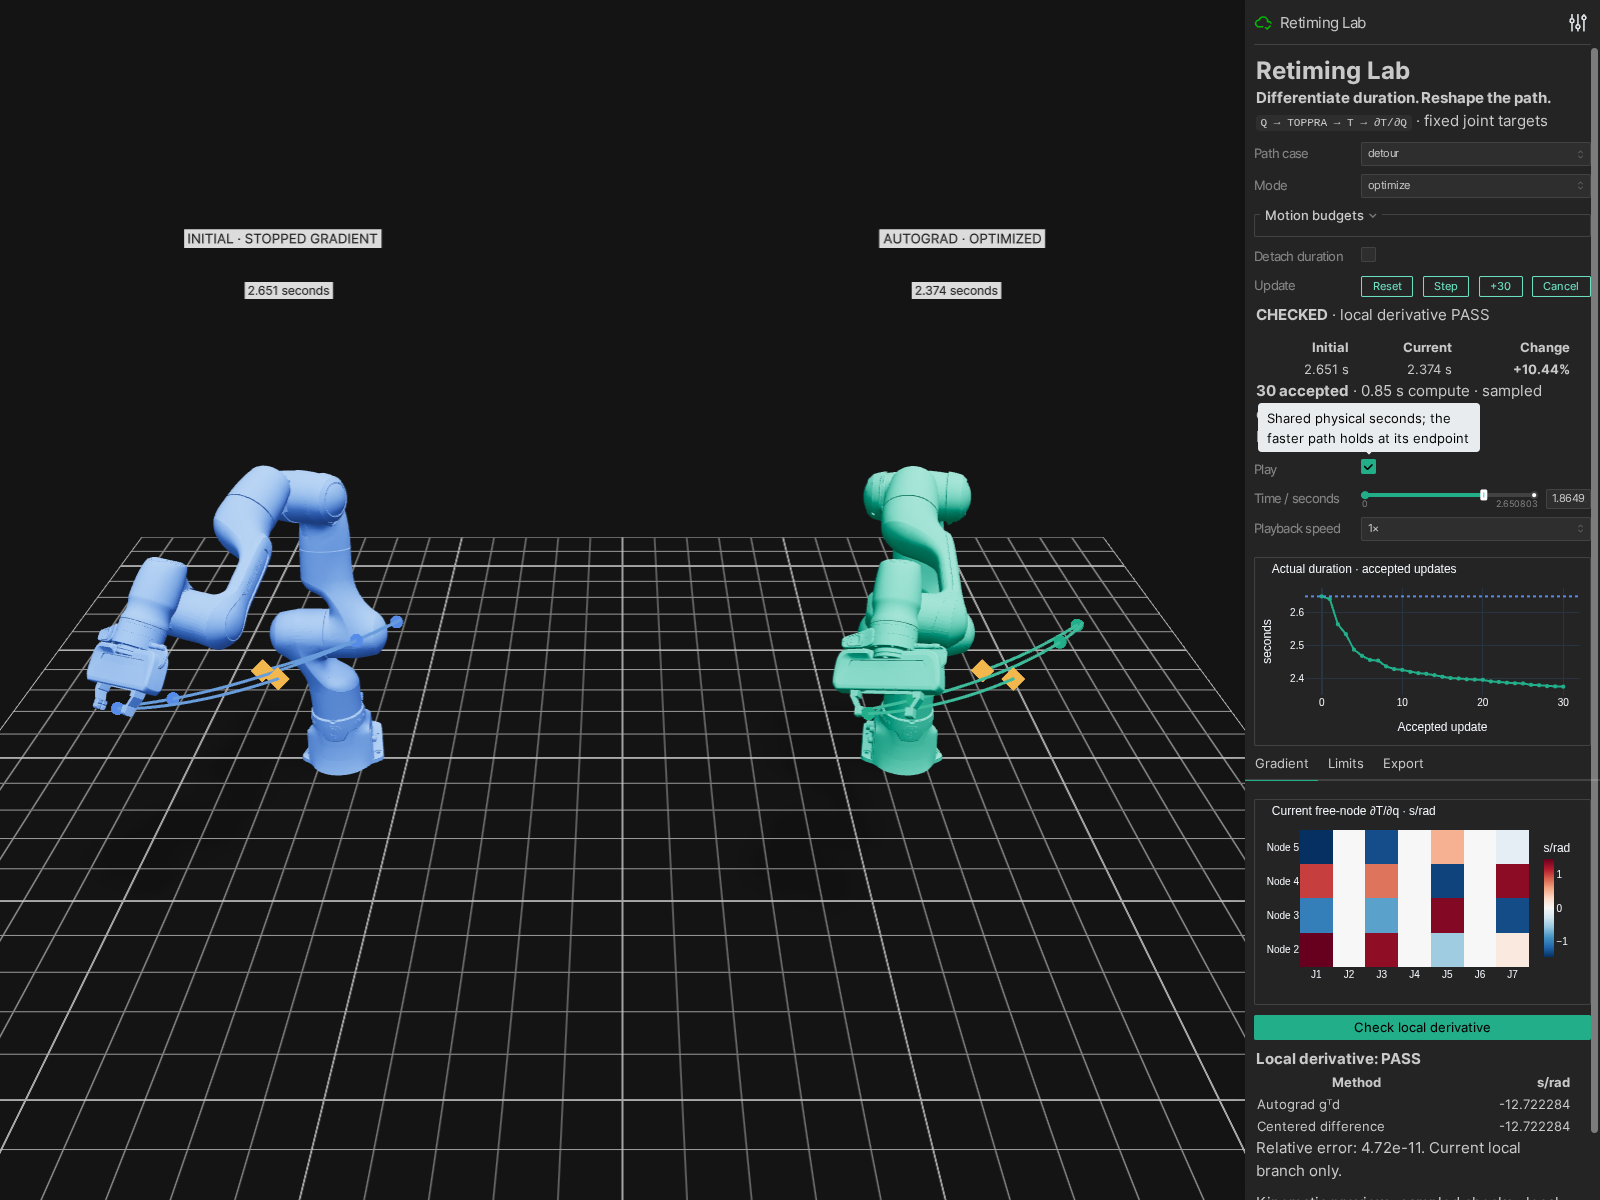
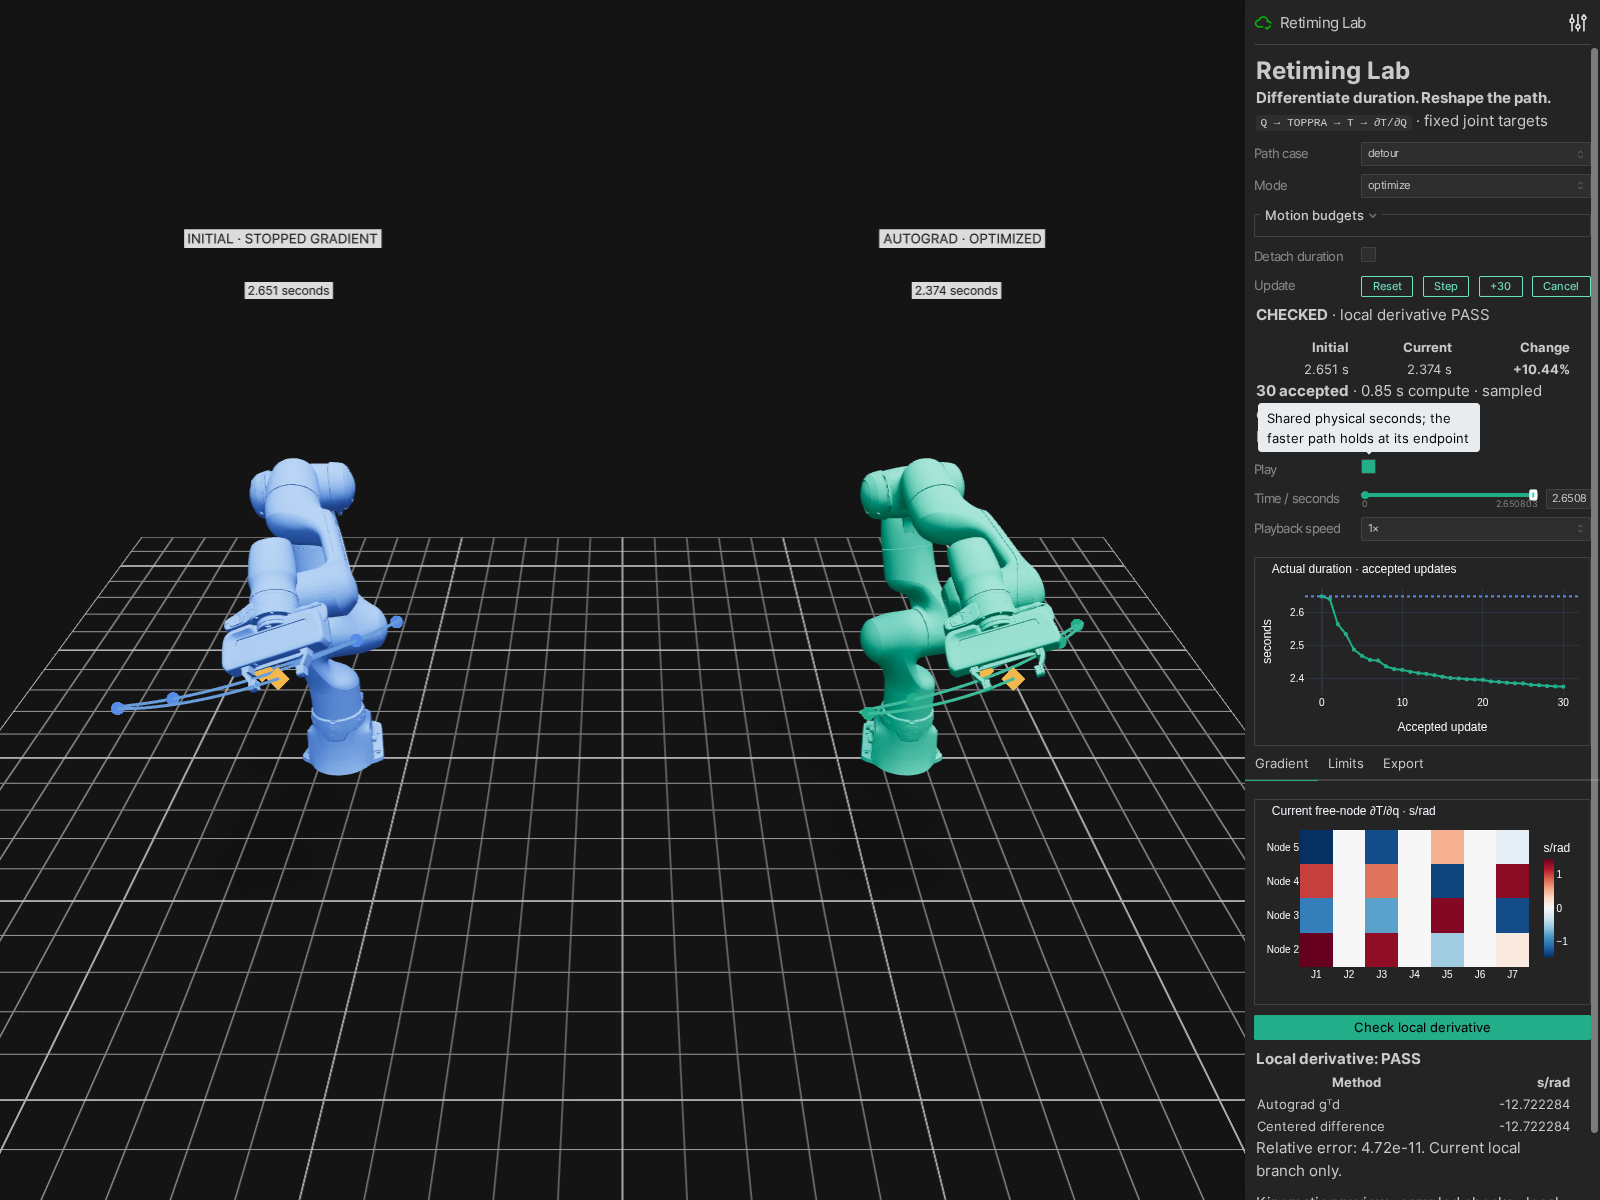
fix(examples): hold exact endpoints and handle forward-only controls

Changed region(s): [[0.0312, 0.37, 0.25, 0.6167], [0.5, 0.37, 0.6875, 0.5858], [0.9375, 0.4008, 0.9688, 0.4317]]

diff --git a/examples/learning/differentiable_toppra/view_path_optimization.py b/examples/learning/differentiable_toppra/view_path_optimization.py
@@ -148,6 +148,8 @@ def _limits(state: Snapshot) -> go.Figure:
 
 def sample_index(row: dict, physical_time: float) -> int:
     """Hold the latest native sample, without interpolating a new trajectory."""
+    if row["length"] and physical_time >= row["duration"]:
+        return row["length"] - 1
     return int(
         np.clip(
             np.searchsorted(row["dt"].cumsum(), physical_time, side="right") - 1,
@@ -599,7 +601,7 @@ def serve(
                     active_id, active_action = job[:2]
                     future = executor.submit(worker, job)
                     busy = True
-            buttons.disabled = mode.value == "retime"
+            buttons.visible = mode.value != "retime"
             detached.disabled = mode.value == "retime"
             check.disabled = busy or current is None or current.gradient is None
             export.disabled = busy or current is None
@@ -626,17 +628,29 @@ def serve(
                         and current.after["duration"]
                         < 0.95 * current.before["duration"]
                     )
+                    initial, _ = robot.initial("detour")
+                    row = robot.row(
+                        initial, robot.velocity * 0.25, robot.acceleration * 0.5
+                    )
+                    assert sample_index(row, row["duration"]) == row["length"] - 1
                     request("continue", 100)
                     smoke_phase = 1
                 elif smoke_phase == 2 and current.cfg.detach_duration:
                     assert current.gradient is None and current.iteration == 0
                     np.testing.assert_array_equal(current.initial, current.current)
+                    mode.value = "retime"
+                    smoke_phase = 3
+                elif smoke_phase == 3 and current.cfg.mode == "retime":
+                    assert not buttons.visible
+                    np.testing.assert_array_equal(current.current, current.initial)
+                    mode.value = "optimize"
                     case.value = "stationary"
                     detached.value = False
-                    smoke_phase = 3
+                    smoke_phase = 4
                 elif (
-                    smoke_phase == 3
+                    smoke_phase == 4
                     and current.cfg.case == "stationary"
+                    and current.cfg.mode == "optimize"
                     and not current.cfg.detach_duration
                 ):
                     assert (

diff --git a/tests/sim/motion/planners/test_neural_planner.py b/tests/sim/motion/planners/test_neural_planner.py
@@ -619,16 +619,18 @@ def test_retime_joint_paths_solves_a_cpu_batch_in_one_call(monkeypatch):
     rows = [retime_joint_paths(paths[i : i + 1], constraints=limits) for i in range(3)]
 
     calls = []
-    original = toppra_module._retime_toppra_warp
+    original = toppra_module._retime_joint_paths
     monkeypatch.setattr(
         toppra_module,
-        "_retime_toppra_warp",
-        lambda *args, **kwargs: calls.append(1) or original(*args, **kwargs),
+        "_retime_joint_paths",
+        lambda *args, **kwargs: calls.append(args[0].shape)
+        or original(*args, **kwargs),
     )
     batched = retime_joint_paths(paths, constraints=limits)
 
-    # Rows are no longer solved one after another on the CPU.
-    assert len(calls) == 1
+    # The public compute boundary receives the whole batch; internal CPU
+    # partitioning belongs to compute rather than the planner adapter.
+    assert calls == [paths.shape]
     assert bool(batched.success.all())
     for index, row in enumerate(rows):
         assert float(batched.dt[index].sum()) == pytest.approx(

diff --git a/embodichain/compute/trajectory/toppra.py b/embodichain/compute/trajectory/toppra.py
@@ -77,7 +77,8 @@ def retime_joint_paths(
             scalar, ``(J,)`` magnitudes, or signed ``(J, 2)`` bounds containing
             zero. One set is shared by the batch; no robot caps are implicit.
         path_lengths: Integer valid input prefix lengths ``(B,)``, in ``[2,N]``.
-            Padding is ignored; explicit repeated points in the prefix remain.
+            Padding is ignored. Existing point filtering applies inside the
+            prefix; an explicit repeated final node retains its final-knot geometry.
         sample_count: Output quantity for moving successful rows. Defaults to
             ``N`` when neither sampling argument is supplied.
         sample_dt: Positive upper bound on time spacing in seconds. Samples
